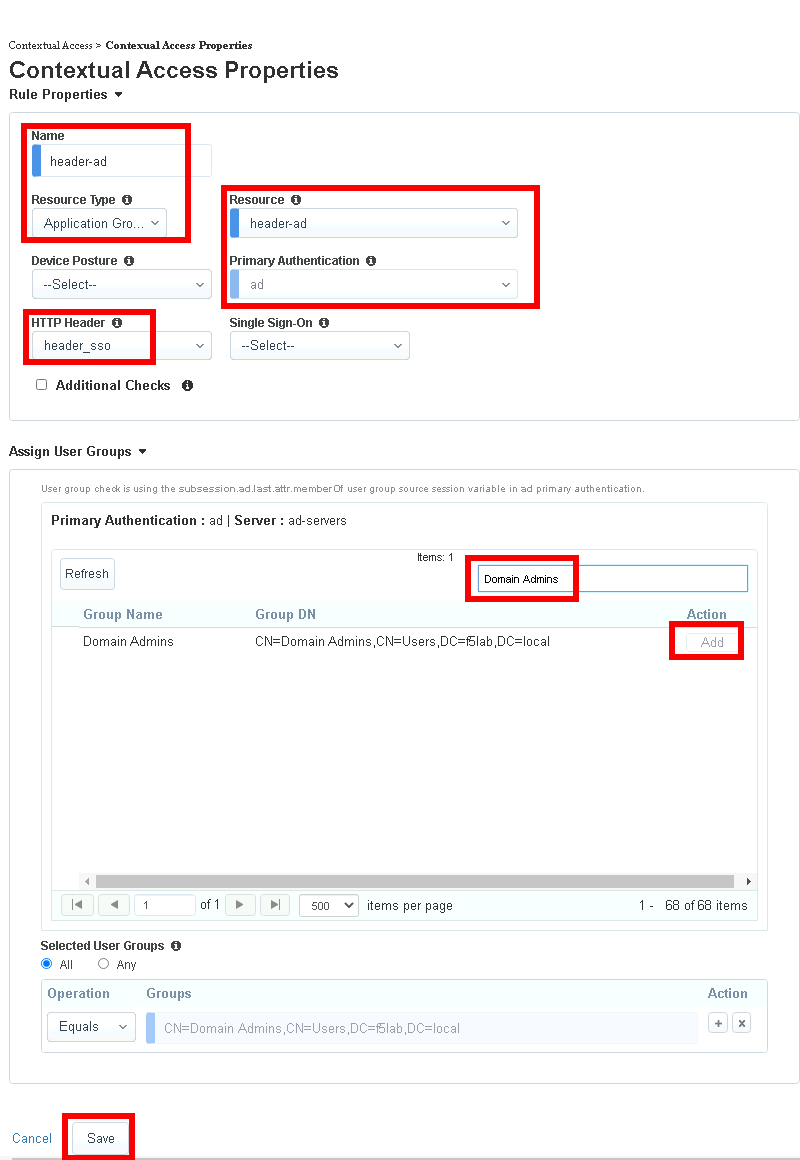
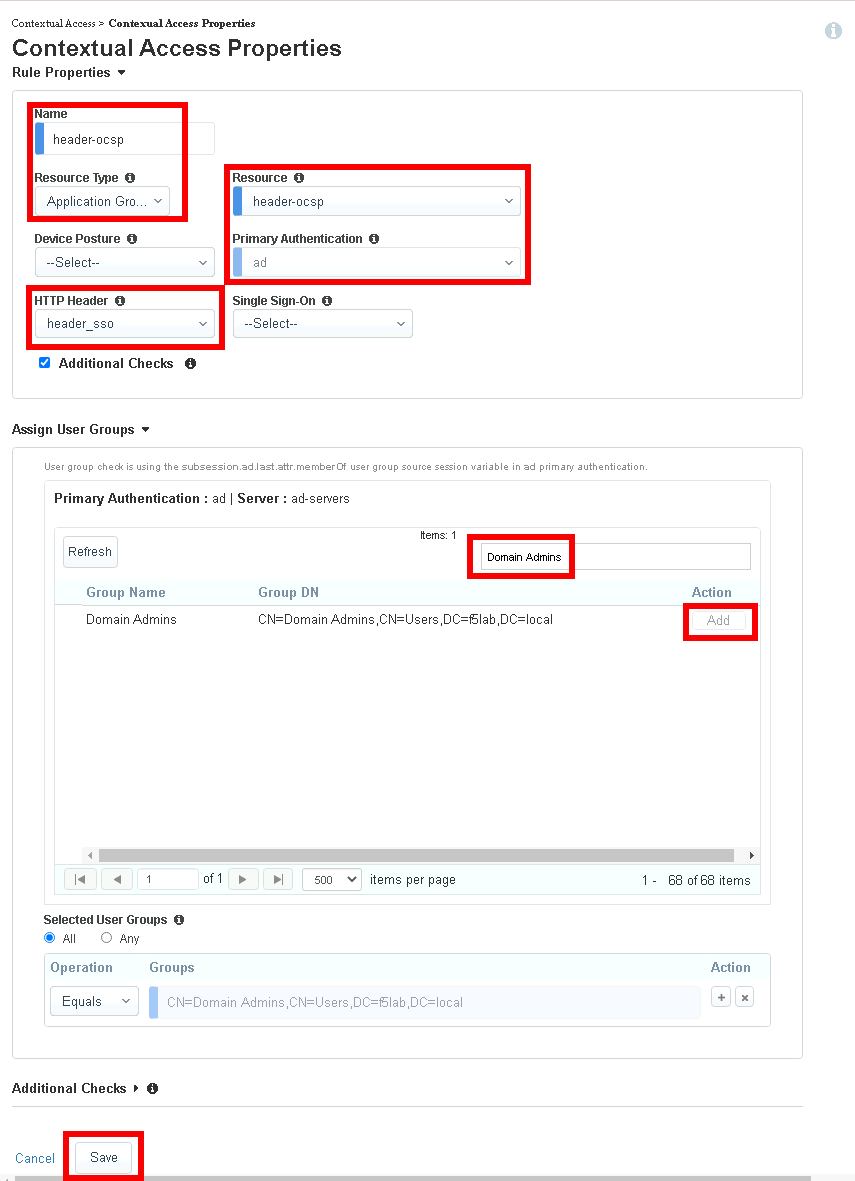
lab2 update v10

Changed region(s): [[0.0, 0.0, 0.9688, 0.7448], [0.0, 0.7138, 1.0, 1.0], [0.9688, 0.0, 1.0, 0.031]]

diff --git a/class2/module2/lab02.rst b/class2/module2/lab02.rst
@@ -212,8 +212,8 @@ Task - Configure Contextual Access for header-ocsp Group
 #. Select **header-ocsp** from the Resource dropdown
 #. Select **ad** from the Primary Authentication dropdown
 #. Select **header_sso** from the HTTP_Header dropdown
-#. Enter **Domain Admin** in the Primary Authentication filter Group Name
-#. Click **Add** beside #. Click **Add** beside Domain Users
+#. Enter **Domain Admins** in the Primary Authentication filter Group Name
+#. Click **Add** beside #. Click **Add** beside Domain Admins
 #. Click **Save**
 
    |image24|
